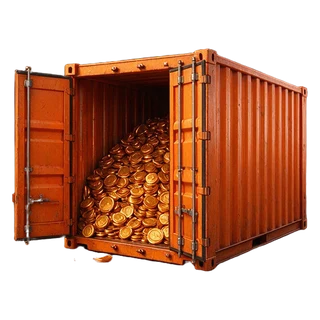
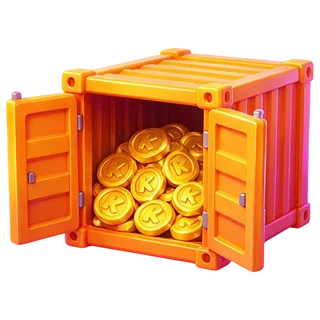
Coin tiers in the site's style, sized and morphing like skins
The six pictures are redrawn in the case art's look (bright glossy
cartoon, yellow K coins) instead of the dark realistic set. The stake
draws them through ItemArt with the gold rarity, so they get a skin's
size (150 on the big card), glow, float and morph: the new tier flows in
over the old one at once instead of waiting for it to leave. All six are
preloaded.

diff --git a/app/components/ui/CoinStack.vue b/app/components/ui/CoinStack.vue
@@ -1,57 +1,26 @@
 <script setup lang="ts">
 /*
- * Balance coins as a piece of the stake, drawn like a skin: one picture per order of the amount, so it reads at a
- * glance how much is in — a coin (under 10), a pile (under 100), a sack (under 1 000), crates (under 10 000), a van
- * (under 100 000), a container (beyond). A soft gold glow sits behind it; moving to another tier pops the new picture
- * in. Size is the old coin diameter: the picture box is 1.9× it, the same footprint as a skin next to it.
+ * Balance coins as a piece of the stake, drawn as a skin is: ItemArt with the gold rarity, one picture per order of
+ * the amount — a coin (under 10), a pile (under 100), a sack (under 1 000), crates (under 10 000), a van (under
+ * 100 000), a container (beyond). Same morph as the skins (the new picture flows in over the old one, no gap), the
+ * same float on big cards. All six are preloaded so a tier change never waits for the network. Size is the old coin
+ * diameter: the art is 1.56× it, so 96 lands on the 150 a big skin uses.
  */
 const props = withDefaults(defineProps<{ size?: number; amount?: number }>(), { size: 40 })
 
 const TIERS = ['coin', 'pile', 'sack', 'crates', 'van', 'container'] as const
+const src = (t: (typeof TIERS)[number]) => `/img/coins/${t}.webp`
 const tier = computed(() => {
   const coins = Math.max(0, (props.amount ?? 0) / 100)
   return TIERS[Math.min(TIERS.length - 1, Math.max(0, Math.floor(Math.log10(Math.max(1, coins)))))]!
 })
-const box = computed(() => Math.round(props.size * 1.9))
+const art = computed(() => Math.round(props.size * 1.56))
+
+onMounted(() => {
+  for (const t of TIERS) new Image().src = src(t)
+})
 </script>
 
 <template>
-  <span class="kd-stack relative inline-grid place-items-center" :style="{ width: `${box}px`, height: `${box}px` }" aria-hidden="true">
-    <span class="kd-stack-glow pointer-events-none absolute inset-0 rounded-full" />
-    <Transition name="kd-tier" mode="out-in">
-      <img :key="tier" :src="`/img/coins/${tier}.webp`" alt="" class="kd-stack-img relative size-full object-contain" draggable="false" />
-    </Transition>
-  </span>
+  <ItemArt morph :float="size >= 60" :image="src(tier)" rarity="gold" :size="art" :style="{ width: `${Math.round(art * 1.73)}px` }" />
 </template>
-
-<style scoped>
-.kd-stack-glow {
-  background: radial-gradient(closest-side, rgb(255 166 43 / 0.32), transparent);
-  scale: 1.1 0.9;
-  translate: 0 8%;
-}
-.kd-stack-img {
-  filter: drop-shadow(0 6px 10px rgb(0 0 0 / 0.45));
-}
-/* a new tier drops in with a bounce, the old one shrinks away */
-.kd-tier-enter-active {
-  transition:
-    scale 420ms cubic-bezier(0.34, 1.56, 0.64, 1),
-    translate 420ms cubic-bezier(0.34, 1.56, 0.64, 1),
-    opacity 160ms var(--ease-out);
-}
-.kd-tier-enter-from {
-  scale: 0.6;
-  translate: 0 -12%;
-  opacity: 0;
-}
-.kd-tier-leave-active {
-  transition:
-    scale 140ms var(--ease-in),
-    opacity 140ms var(--ease-in);
-}
-.kd-tier-leave-to {
-  scale: 0.8;
-  opacity: 0;
-}
-</style>
